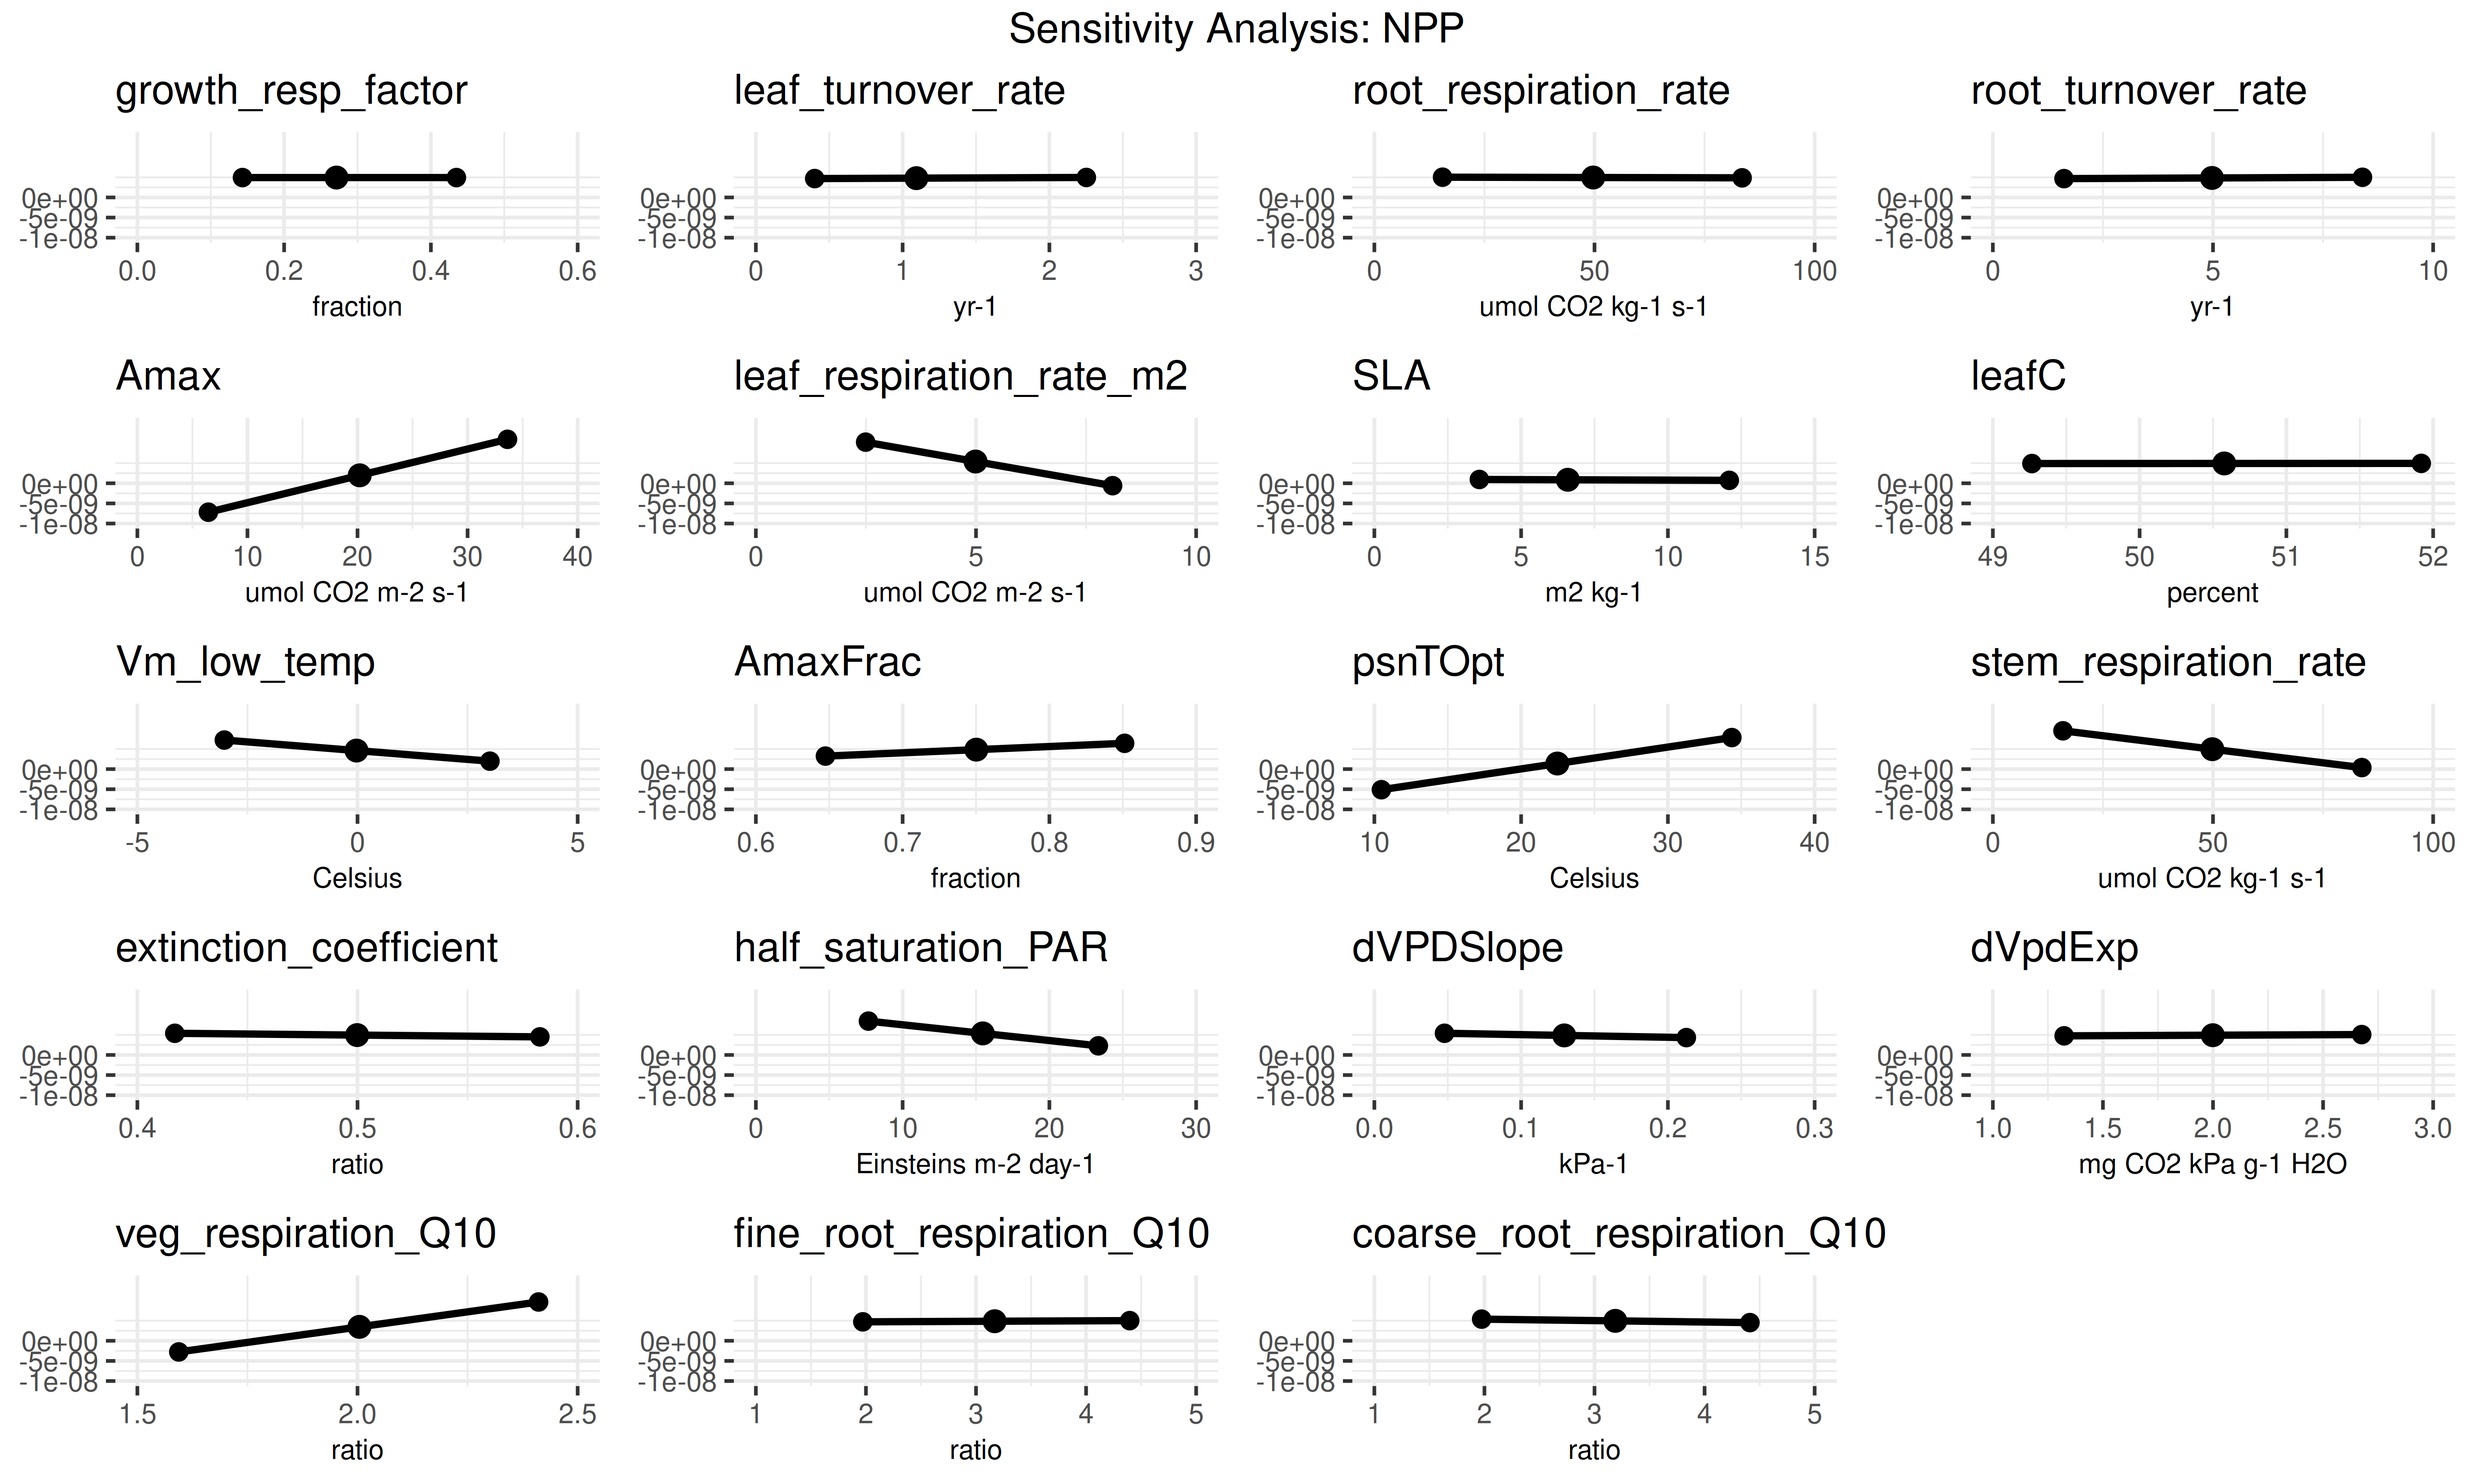
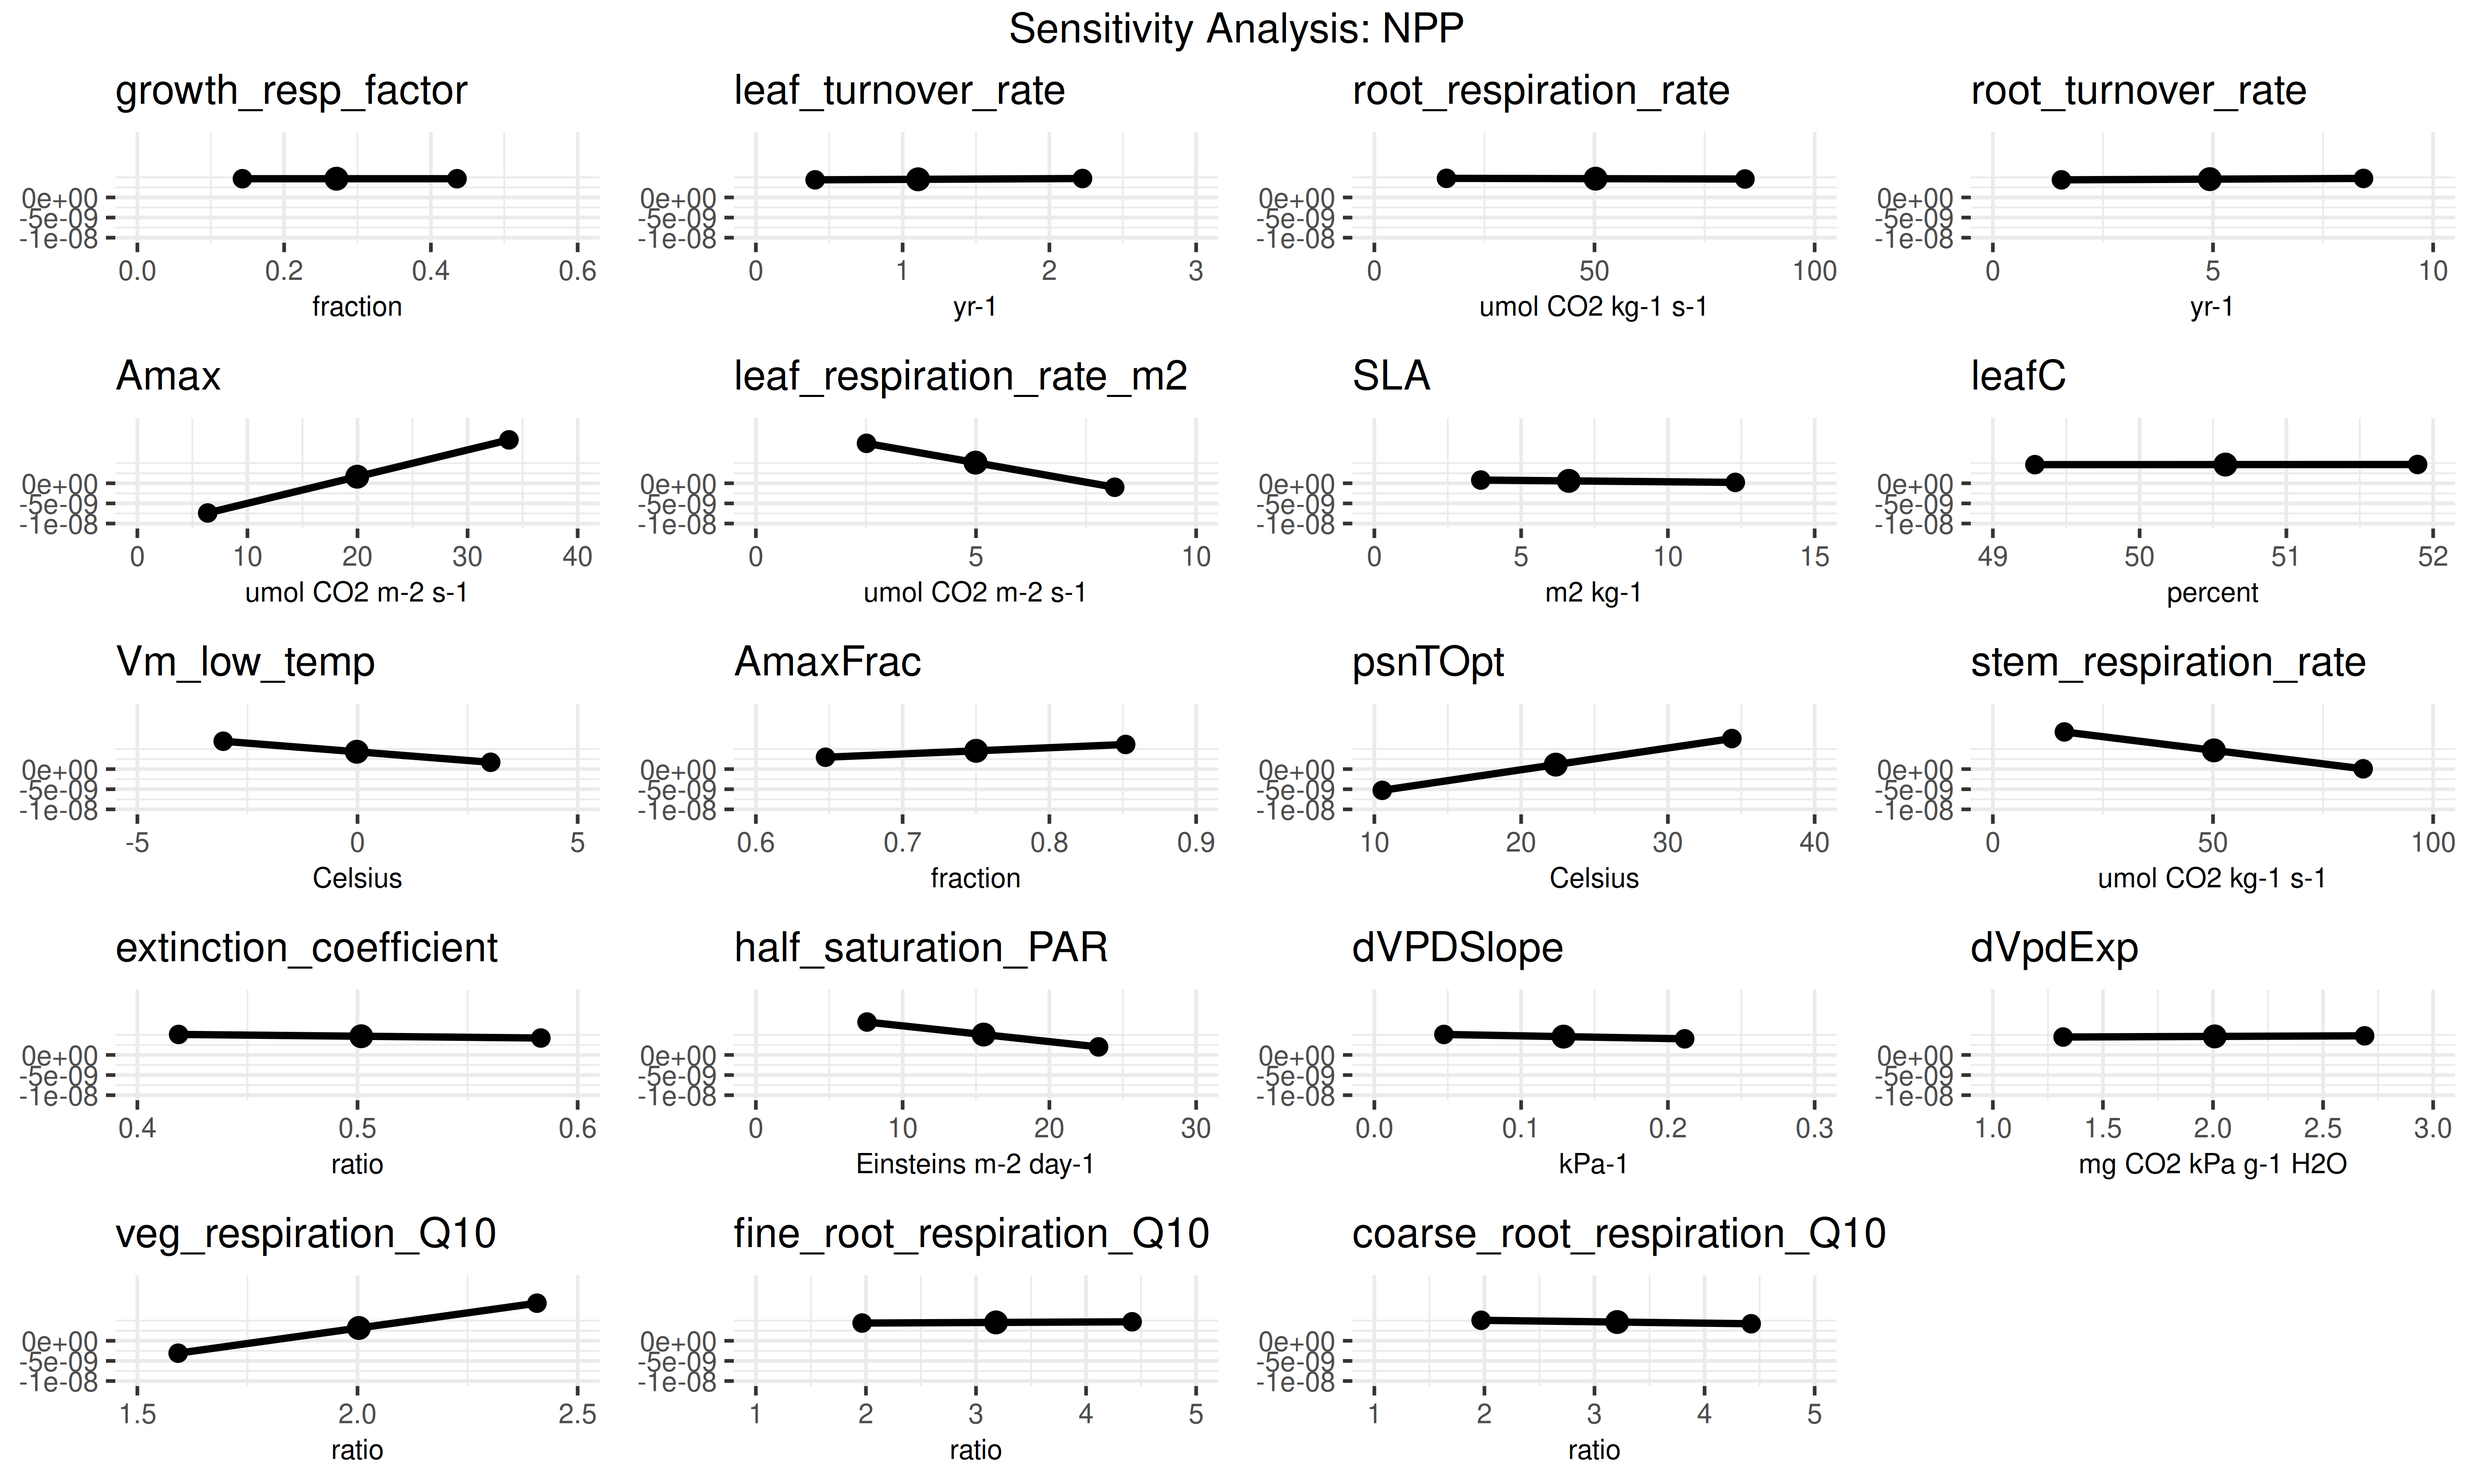
Update Quarto HTML from pecan revision 1c3a9bc28a137cda6e60a36330fb71b8b38f2e16

diff --git a/develop/rendered-demo-notebooks/uncertainty.html b/develop/rendered-demo-notebooks/uncertainty.html
@@ -543,138 +543,138 @@ install.packages(c('PEcAn.all', 'PEcAn.SIPNET'))</code></pre>
 <div class="cell-output cell-output-stdout">
 <pre><code>$coef.vars
          growth_resp_factor          leaf_turnover_rate 
-                 0.52079231                  0.87885616 
+                 0.52328452                  0.87456859 
       root_respiration_rate          root_turnover_rate 
-                 0.58065363                  0.57647686 
+                 0.57209020                  0.58747028 
                        Amax    leaf_respiration_rate_m2 
-                 0.57041268                  0.55324490 
+                 0.57906494                  0.55771911 
                         SLA                       leafC 
-                 0.80997181                  0.02610969 
+                 0.81119454                  0.02587245 
                 Vm_low_temp                    AmaxFrac 
-                 0.01102240                  0.11521165 
+                 0.01101363                  0.11558766 
                     psnTOpt       stem_respiration_rate 
-                 0.03413361                  0.57857161 
+                 0.03416121                  0.57325805 
      extinction_coefficient         half_saturation_PAR 
-                 0.13928431                  0.43029436 
+                 0.13823004                  0.42870075 
                   dVPDSlope                     dVpdExp 
-                 0.53749274                  0.28703999 
+                 0.53786191                  0.28808554 
         veg_respiration_Q10   fine_root_respiration_Q10 
-                 0.17229387                  0.32534070 
+                 0.17274328                  0.32674258 
 coarse_root_respiration_Q10 
-                 0.32483130 
+                 0.32369334 
 
 $elasticities
          growth_resp_factor          leaf_turnover_rate 
-                 0.00000000                  0.03428761 
+                 0.00000000                  0.04332419 
       root_respiration_rate          root_turnover_rate 
-                -0.02323996                  0.05005928 
+                -0.02620909                  0.05564472 
                        Amax    leaf_respiration_rate_m2 
-                 6.81812752                 -1.78043168 
+                 8.11164169                 -1.88322978 
                         SLA                       leafC 
-                -0.19431834                  0.15594061 
+                -0.74094956                  0.17558009 
                 Vm_low_temp                    AmaxFrac 
-                 1.01972593                  2.41813790 
+                 1.01862167                  2.56470118 
                     psnTOpt       stem_respiration_rate 
-                 1.07220791                 -1.35514550 
+                 1.07375116                 -1.45649217 
      extinction_coefficient         half_saturation_PAR 
-                -0.54330735                 -1.13012708 
+                -0.58481975                 -1.19926753 
                   dVPDSlope                     dVpdExp 
-                -0.17354198                  0.09434735 
+                -0.18746794                  0.09521661 
         veg_respiration_Q10   fine_root_respiration_Q10 
-                 8.79616409                  0.08079963 
+                 9.60958710                  0.08936671 
 coarse_root_respiration_Q10 
-                -0.22731566 
+                -0.24078940 
 
 $sensitivities
          growth_resp_factor          leaf_turnover_rate 
-               0.000000e+00                1.502644e-10 
+               0.000000e+00                1.764901e-10 
       root_respiration_rate          root_turnover_rate 
-              -2.315513e-12                4.871584e-11 
+              -2.432618e-12                5.133650e-11 
                        Amax    leaf_respiration_rate_m2 
-               6.666000e-10               -1.929112e-09 
+               6.638348e-10               -1.935886e-09 
                         SLA                       leafC 
-              -2.563698e-11                1.518549e-11 
+              -6.692627e-11                1.613095e-11 
                 Vm_low_temp                    AmaxFrac 
-              -8.688345e-10                1.558716e-08 
+              -8.608649e-10                1.553018e-08 
                     psnTOpt       stem_respiration_rate 
-               5.424640e-10               -1.346181e-10 
+               5.400949e-10               -1.349874e-10 
      extinction_coefficient         half_saturation_PAR 
-              -5.364424e-09               -3.914946e-10 
+              -5.417556e-09               -3.915811e-10 
                   dVPDSlope                     dVpdExp 
-              -6.510215e-09                2.314961e-10 
+              -6.624763e-09                2.183808e-10 
         veg_respiration_Q10   fine_root_respiration_Q10 
-               1.518458e-08                1.237940e-10 
+               1.524429e-08                1.280867e-10 
 coarse_root_respiration_Q10 
-              -3.528619e-10 
+              -3.497666e-10 
 
 $variances
          growth_resp_factor          leaf_turnover_rate 
-               7.379765e-50                2.086843e-20 
+               1.967253e-50                2.910992e-20 
       root_respiration_rate          root_turnover_rate 
-               4.466336e-21                1.953002e-20 
+               4.888956e-21                2.208526e-20 
                        Amax    leaf_respiration_rate_m2 
-               5.899709e-17                2.835534e-17 
+               5.893073e-17                2.901693e-17 
                         SLA                       leafC 
-               1.872794e-20                4.021264e-22 
+               1.293507e-19                4.456856e-22 
                 Vm_low_temp                    AmaxFrac 
-               6.841584e-18                1.815159e-18 
+               6.706277e-18                1.812974e-18 
                     psnTOpt       stem_respiration_rate 
-               2.996165e-17                1.507110e-17 
+               2.972697e-17                1.509185e-17 
      extinction_coefficient         half_saturation_PAR 
-               1.394755e-19                6.785360e-18 
+               1.411472e-19                6.786463e-18 
                   dVPDSlope                     dVpdExp 
-               2.049983e-19                1.764666e-20 
+               2.108861e-19                1.595573e-20 
         veg_respiration_Q10   fine_root_respiration_Q10 
-               2.749649e-17                1.629678e-20 
+               2.782535e-17                1.773520e-20 
 coarse_root_respiration_Q10 
-               1.335997e-19 
+               1.317602e-19 
 
 $partial.variances
          growth_resp_factor          leaf_turnover_rate 
-               4.195437e-34                1.186382e-04 
+               1.113954e-34                1.648345e-04 
       root_respiration_rate          root_turnover_rate 
-               2.539137e-05                1.110293e-04 
+               2.768364e-05                1.250574e-04 
                        Amax    leaf_respiration_rate_m2 
-               3.354017e-01                1.612017e-01 
+               3.336944e-01                1.643079e-01 
                         SLA                       leafC 
-               1.064694e-04                2.286111e-06 
+               7.324466e-04                2.523688e-06 
                 Vm_low_temp                    AmaxFrac 
-               3.889478e-02                1.031928e-02 
+               3.797419e-02                1.026594e-02 
                     psnTOpt       stem_respiration_rate 
-               1.703336e-01                8.568003e-02 
+               1.683285e-01                8.545739e-02 
      extinction_coefficient         half_saturation_PAR 
-               7.929260e-04                3.857514e-02 
+               7.992438e-04                3.842824e-02 
                   dVPDSlope                     dVpdExp 
-               1.165427e-03                1.003223e-04 
+               1.194139e-03                9.034910e-05 
         veg_respiration_Q10   fine_root_respiration_Q10 
-               1.563191e-01                9.264811e-05 
+               1.575606e-01                1.004253e-04 
 coarse_root_respiration_Q10 
-               7.595218e-04 
+               7.460903e-04 
 
        growth_resp_factor leaf_turnover_rate root_respiration_rate
-15.866       4.940517e-09       4.689777e-09          5.031718e-09
+15.866       4.650627e-09       4.379111e-09          4.745655e-09
 50                     NA                 NA                    NA
-84.134       4.940517e-09       4.967902e-09          4.874171e-09
+84.134       4.650627e-09       4.700687e-09          4.580740e-09
        root_turnover_rate          Amax leaf_respiration_rate_m2          SLA
-15.866       4.678962e-09 -7.189208e-09             1.022114e-08 9.467340e-10
+15.866       4.373103e-09 -7.380686e-09             9.922270e-09 7.990855e-10
 50                     NA            NA                       NA           NA
-84.134       5.009202e-09  1.092466e-08            -5.995434e-10 7.284393e-10
+84.134       4.725290e-09  1.078887e-08            -9.909748e-10 2.187690e-10
               leafC  Vm_low_temp     AmaxFrac       psnTOpt
-15.866 4.905257e-09 7.218712e-09 3.233120e-09 -5.114919e-09
+15.866 4.626372e-09 6.924712e-09 2.948290e-09 -5.271422e-09
 50               NA           NA           NA            NA
-84.134 4.945545e-09 1.977143e-09 6.410804e-09  7.837198e-09
+84.134 4.668431e-09 1.694274e-09 6.124266e-09  7.594111e-09
        stem_respiration_rate extinction_coefficient half_saturation_PAR
-15.866          9.518126e-09           5.379509e-09        8.407458e-09
+15.866          9.237439e-09           5.096798e-09        8.177684e-09
 50                        NA                     NA                  NA
-84.134          3.798257e-10           4.489887e-09        2.274527e-09
+84.134          7.652803e-11           4.205342e-09        2.000259e-09
           dVPDSlope      dVpdExp veg_respiration_Q10 fine_root_respiration_Q10
-15.866 5.385360e-09 4.748881e-09       -2.769651e-09              4.707960e-09
+15.866 5.094269e-09 4.454564e-09       -3.080506e-09              4.404916e-09
 50               NA           NA                  NA                        NA
-84.134 4.312386e-09 5.061792e-09        9.639717e-09              5.008159e-09
+84.134 4.007412e-09 4.753656e-09        9.342650e-09              4.719092e-09
        coarse_root_respiration_Q10
-15.866                5.378561e-09
+15.866                5.089652e-09
 50                              NA
-84.134                4.518506e-09</code></pre>
+84.134                4.231368e-09</code></pre>
 </div>
 </div>
 </section>

diff --git a/develop/rendered-demo-notebooks/run_pecan.html b/develop/rendered-demo-notebooks/run_pecan.html
@@ -417,7 +417,7 @@ install.packages(c('PEcAn.all', 'PEcAn.SIPNET'))
   ..$ settings.updated         : logi TRUE
   ..$ checked                  : logi TRUE
  $ workflow     :List of 1
-  ..$ id: chr "2026-03-11-16-16-31"
+  ..$ id: chr "2026-03-11-19-54-16"
  $ rundir       : chr "/work/documentation/tutorials/Demo_1_Basic_Run/demo_outdir/run"
  $ modeloutdir  : chr "/work/documentation/tutorials/Demo_1_Basic_Run/demo_outdir/out"
  - attr(*, "class")= chr [1:3] "Settings" "SafeList" "list"</code></pre>
